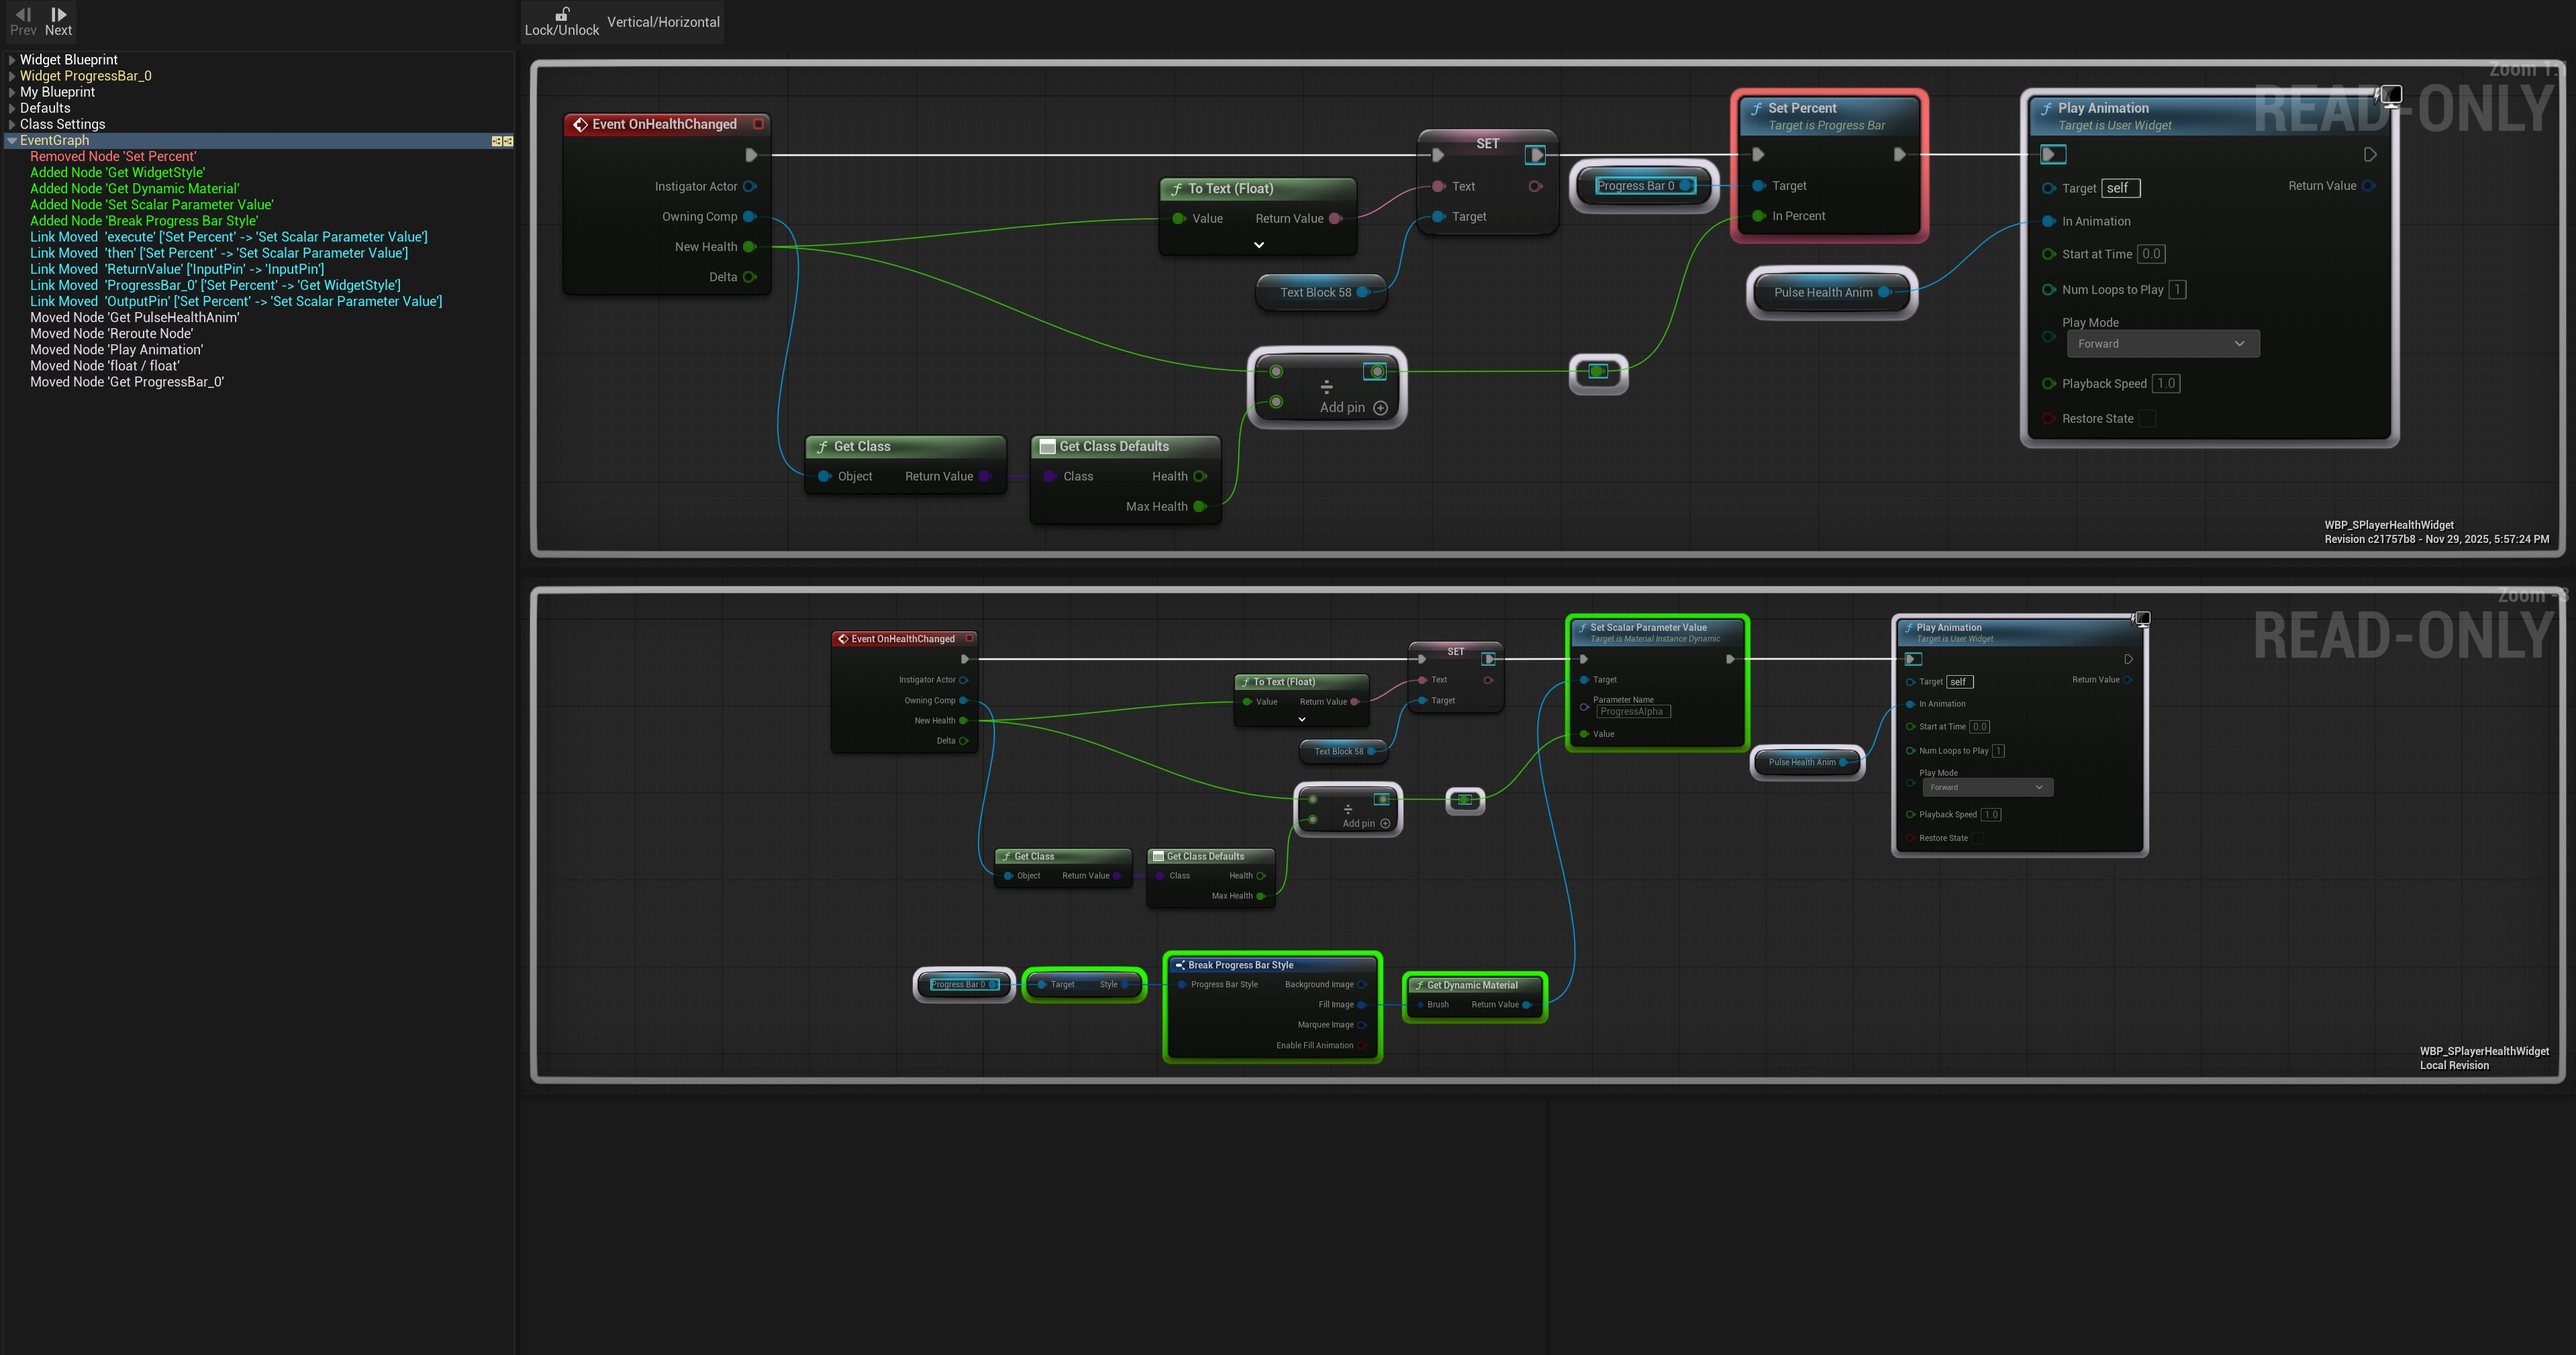
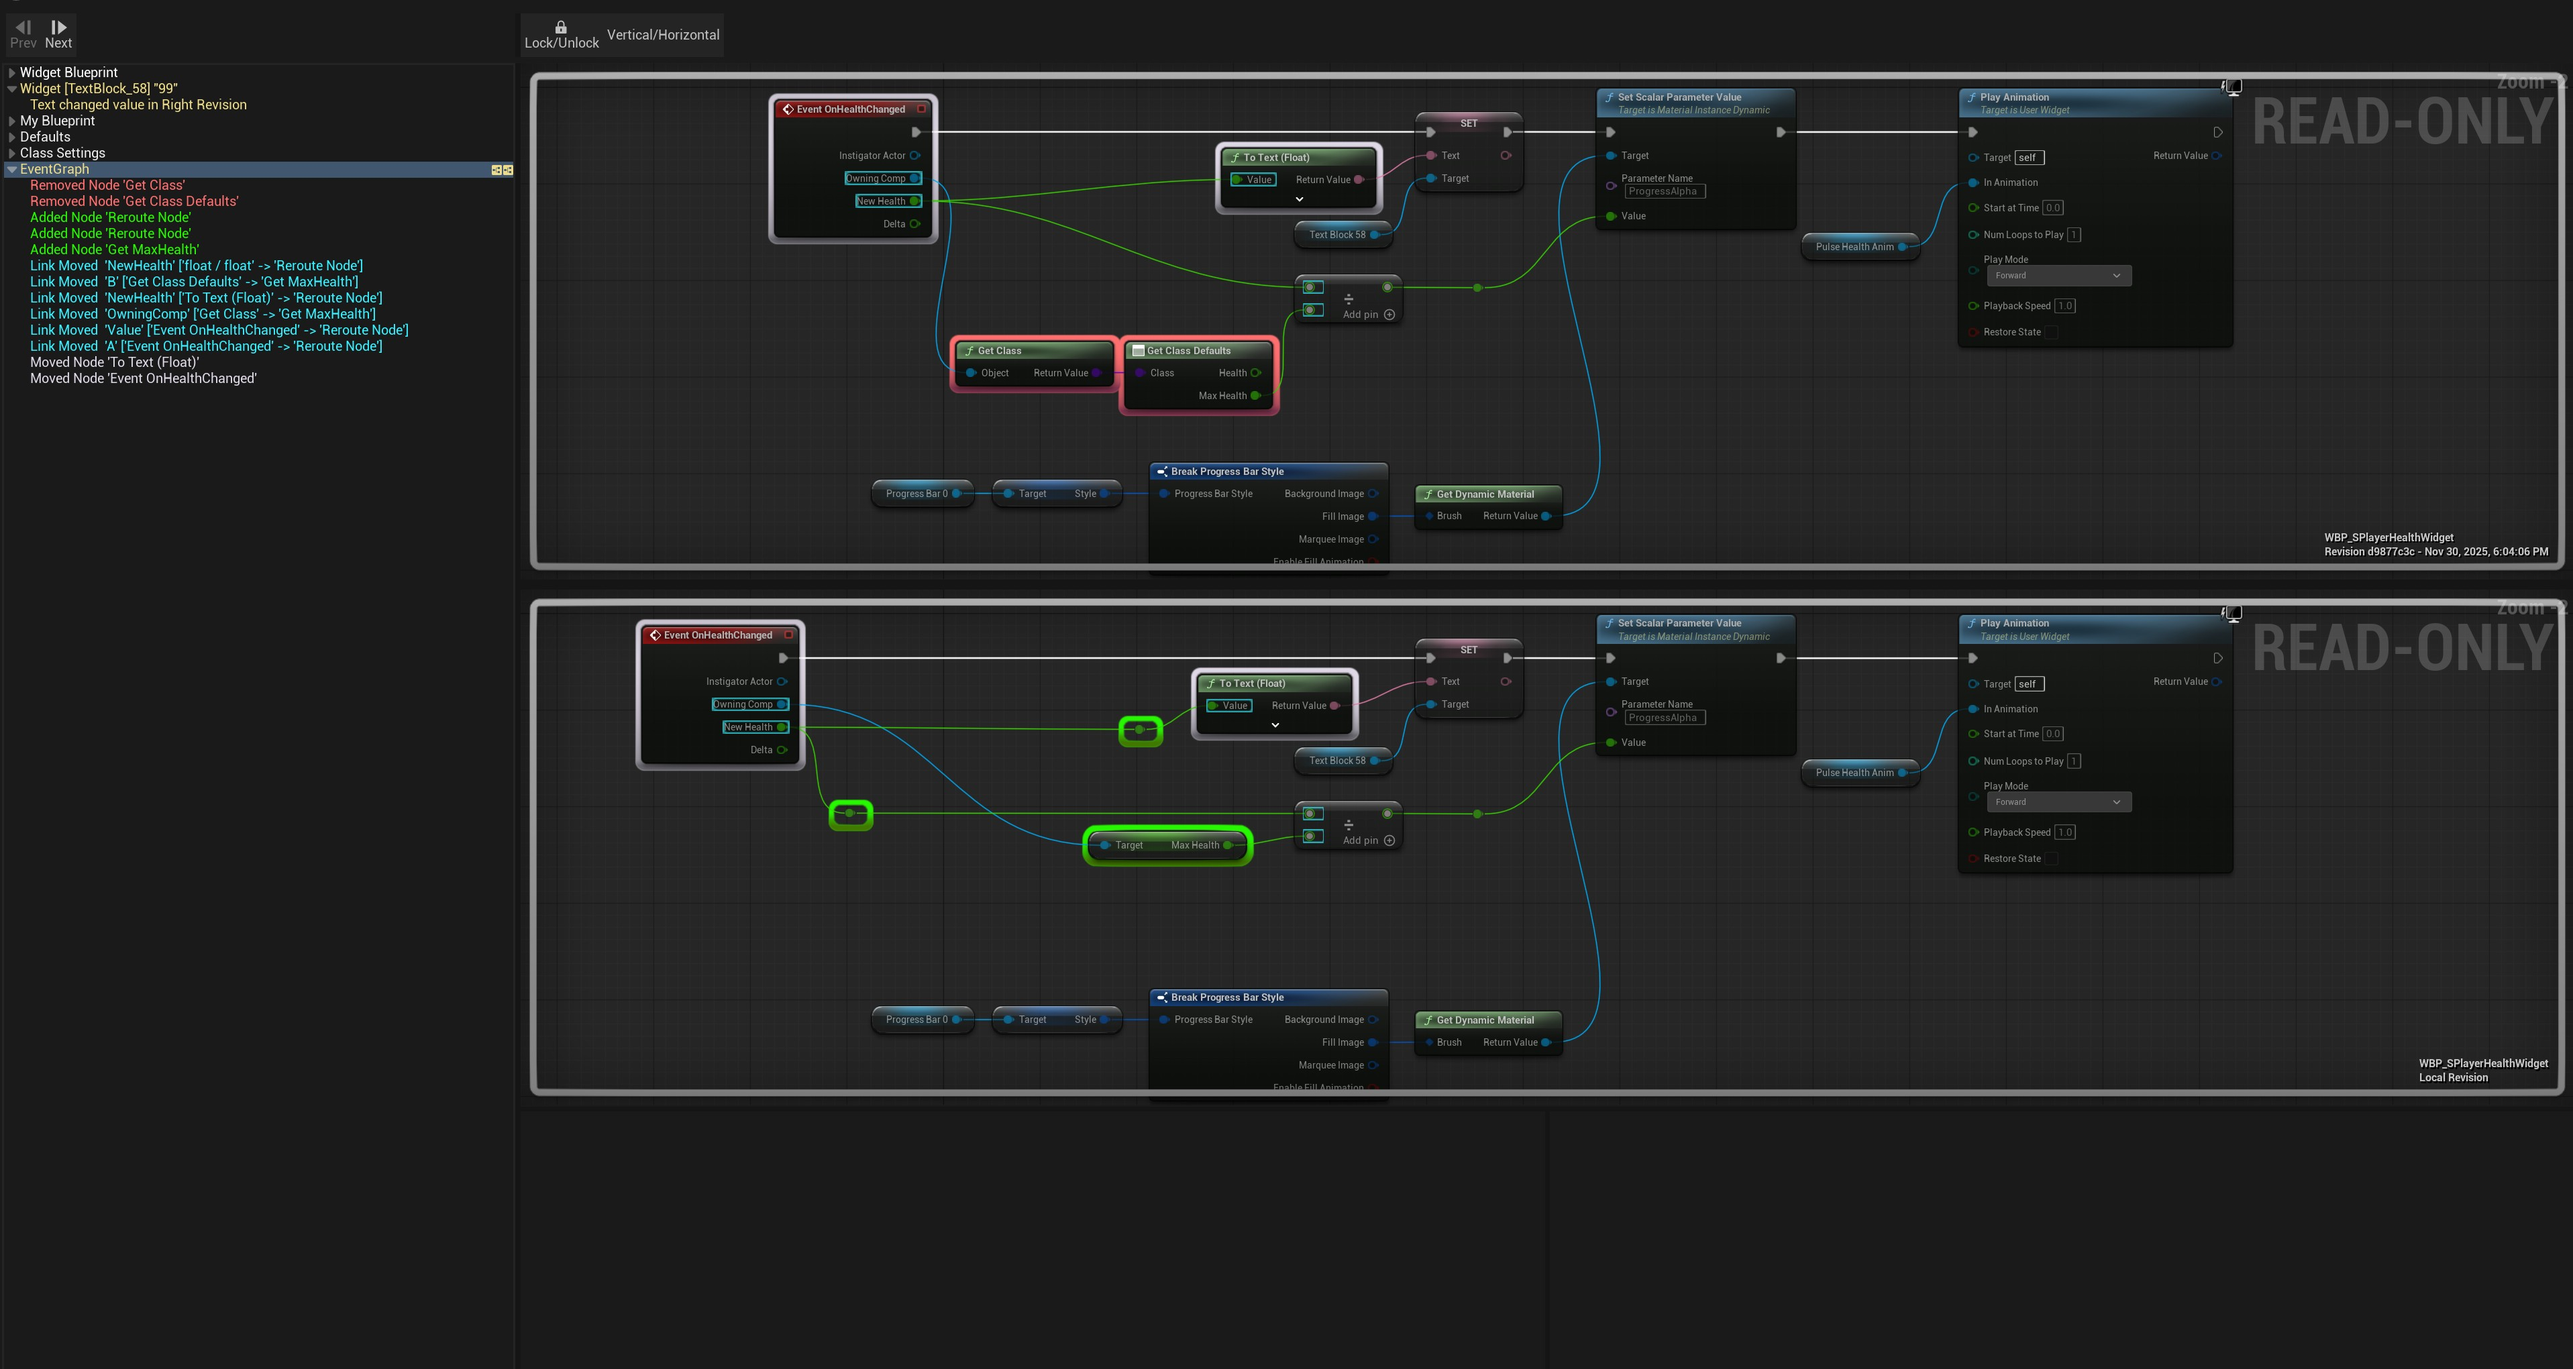
[Ref] Refactored the healthbar behavior
+ [Fix] Healthbar wasn't being uptated to MaxHealth on BeginPlay()

Changed region(s): [[0.0, 0.0, 1.0, 0.8113], [0.5896, 0.2496, 0.6516, 0.312]]

diff --git a/Source/TomLoomanCourse/Private/SAttributesComponent.cpp b/Source/TomLoomanCourse/Private/SAttributesComponent.cpp
@@ -9,7 +9,6 @@ USAttributesComponent::USAttributesComponent()
 	// Set this component to be initialized when the game starts, and to be ticked every frame.  You can turn these features
 	// off to improve performance if you don't need them.
 	PrimaryComponentTick.bCanEverTick = true;
-	Health = MaxHealth;
 }
 
 
@@ -17,27 +16,18 @@ USAttributesComponent::USAttributesComponent()
 void USAttributesComponent::BeginPlay()
 {
 	Super::BeginPlay();
+	Health = MaxHealth;
+	//This line of code set the healthbar Widget to MaxHealth at BeginPlay
+	ApplyHealthChange(0);
 }
 
 bool USAttributesComponent::ApplyHealthChange(float Delta)
 {
-	if (Delta == 0.0f)
-	{
-		UE_LOG(LogTemp, Warning, TEXT("Attempted to do damage Actor %s but projectile damage is zero"), *GetOwner()->GetActorLabel());
-		return false;
-	}
-	float temp = Health + Delta;
-	if (temp >= MaxHealth)
-		Health = MaxHealth;
-	else if (temp<=0)
-	{
-		Health = 0.0f;
+
+	Health = FMath::Clamp(Health + Delta, 0.0f, MaxHealth);
+	if (Health == 0)
 		Death();
-	}
-	else
-	{
-		Health += Delta;
-	}
+
 	OnHealthChanged.Broadcast(nullptr, this, Health, Delta);
 	return true;
 }

diff --git a/Source/TomLoomanCourse/Public/SAttributesComponent.h b/Source/TomLoomanCourse/Public/SAttributesComponent.h
@@ -25,10 +25,10 @@ public:
 
 protected:
 
-	UPROPERTY(EditDefaultsOnly, BlueprintReadOnly , Category = "Attributes")
+	UPROPERTY(EditAnywhere, BlueprintReadOnly , Category = "Attributes")
 	float Health = 100.0f;
 
-	UPROPERTY(EditDefaultsOnly, BlueprintReadOnly , Category = "Attributes")
+	UPROPERTY(EditAnywhere, BlueprintReadOnly , Category = "Attributes")
 	float MaxHealth = 100.0f;
 
 	bool bIsAlive =true;
